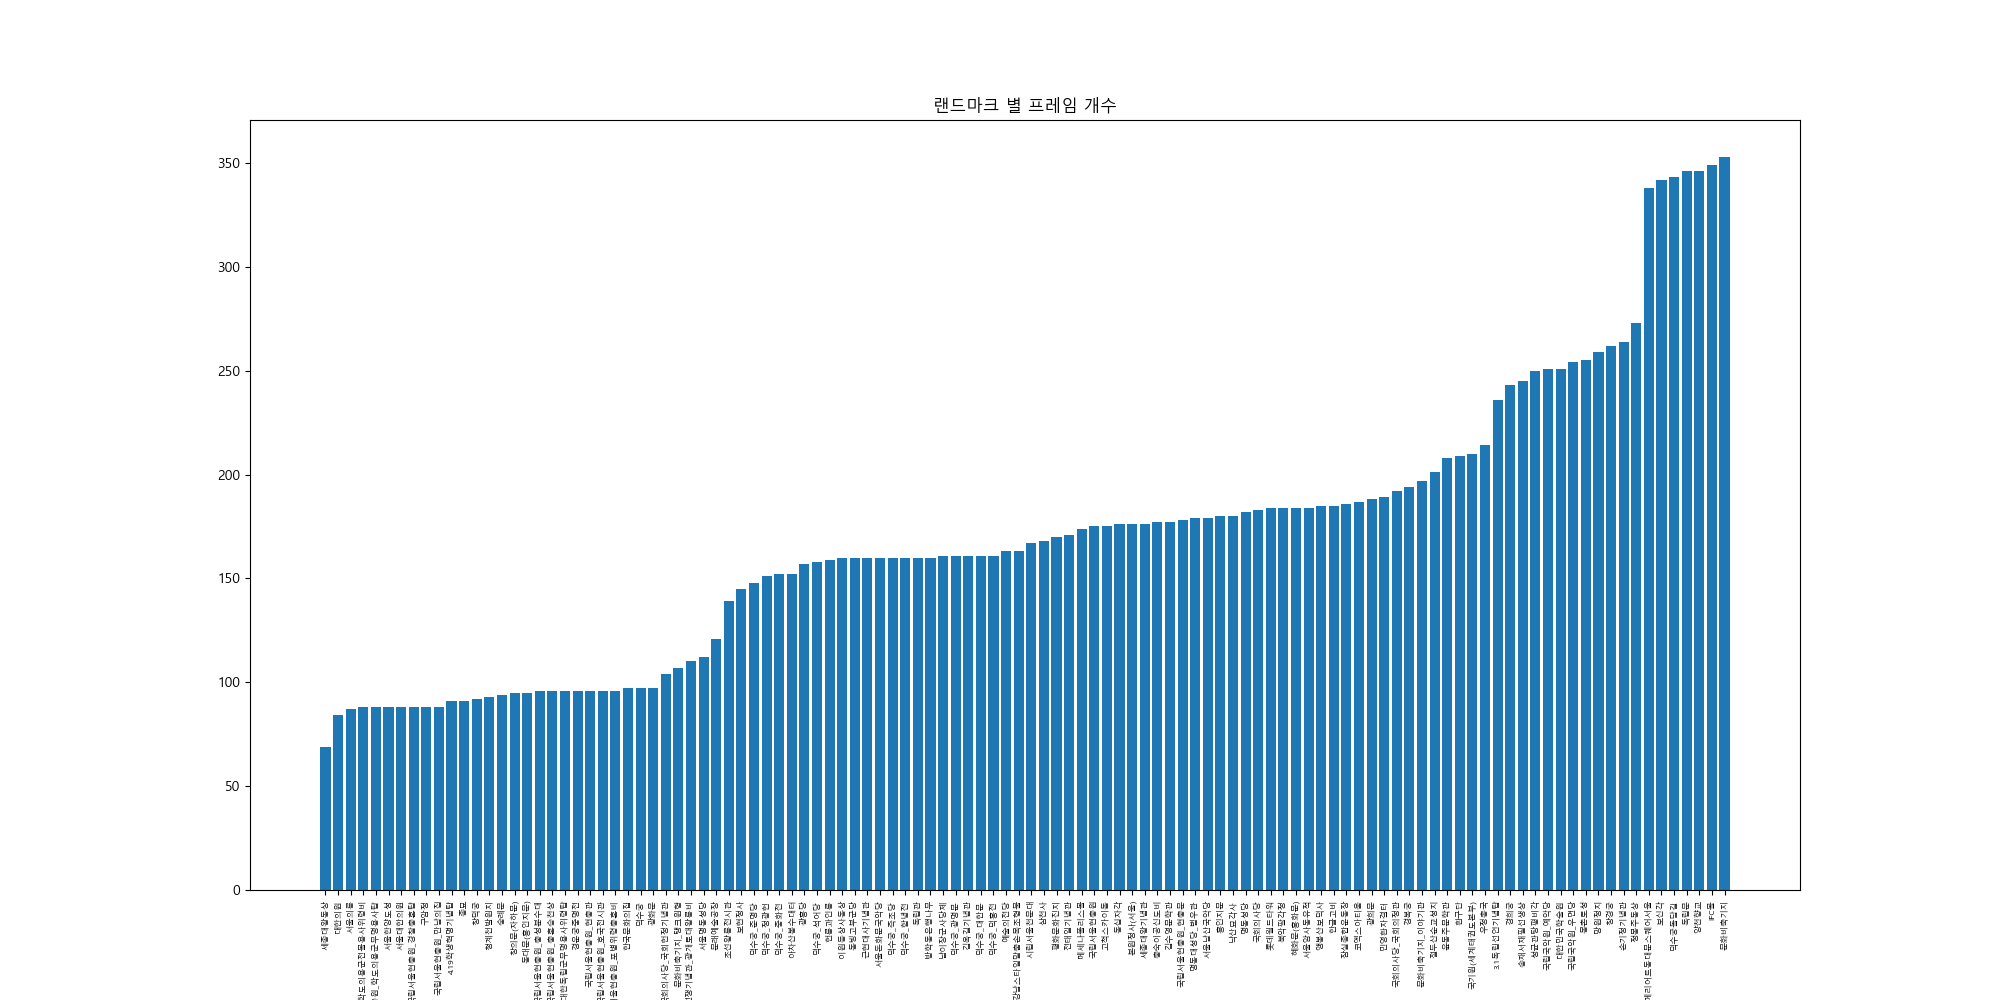
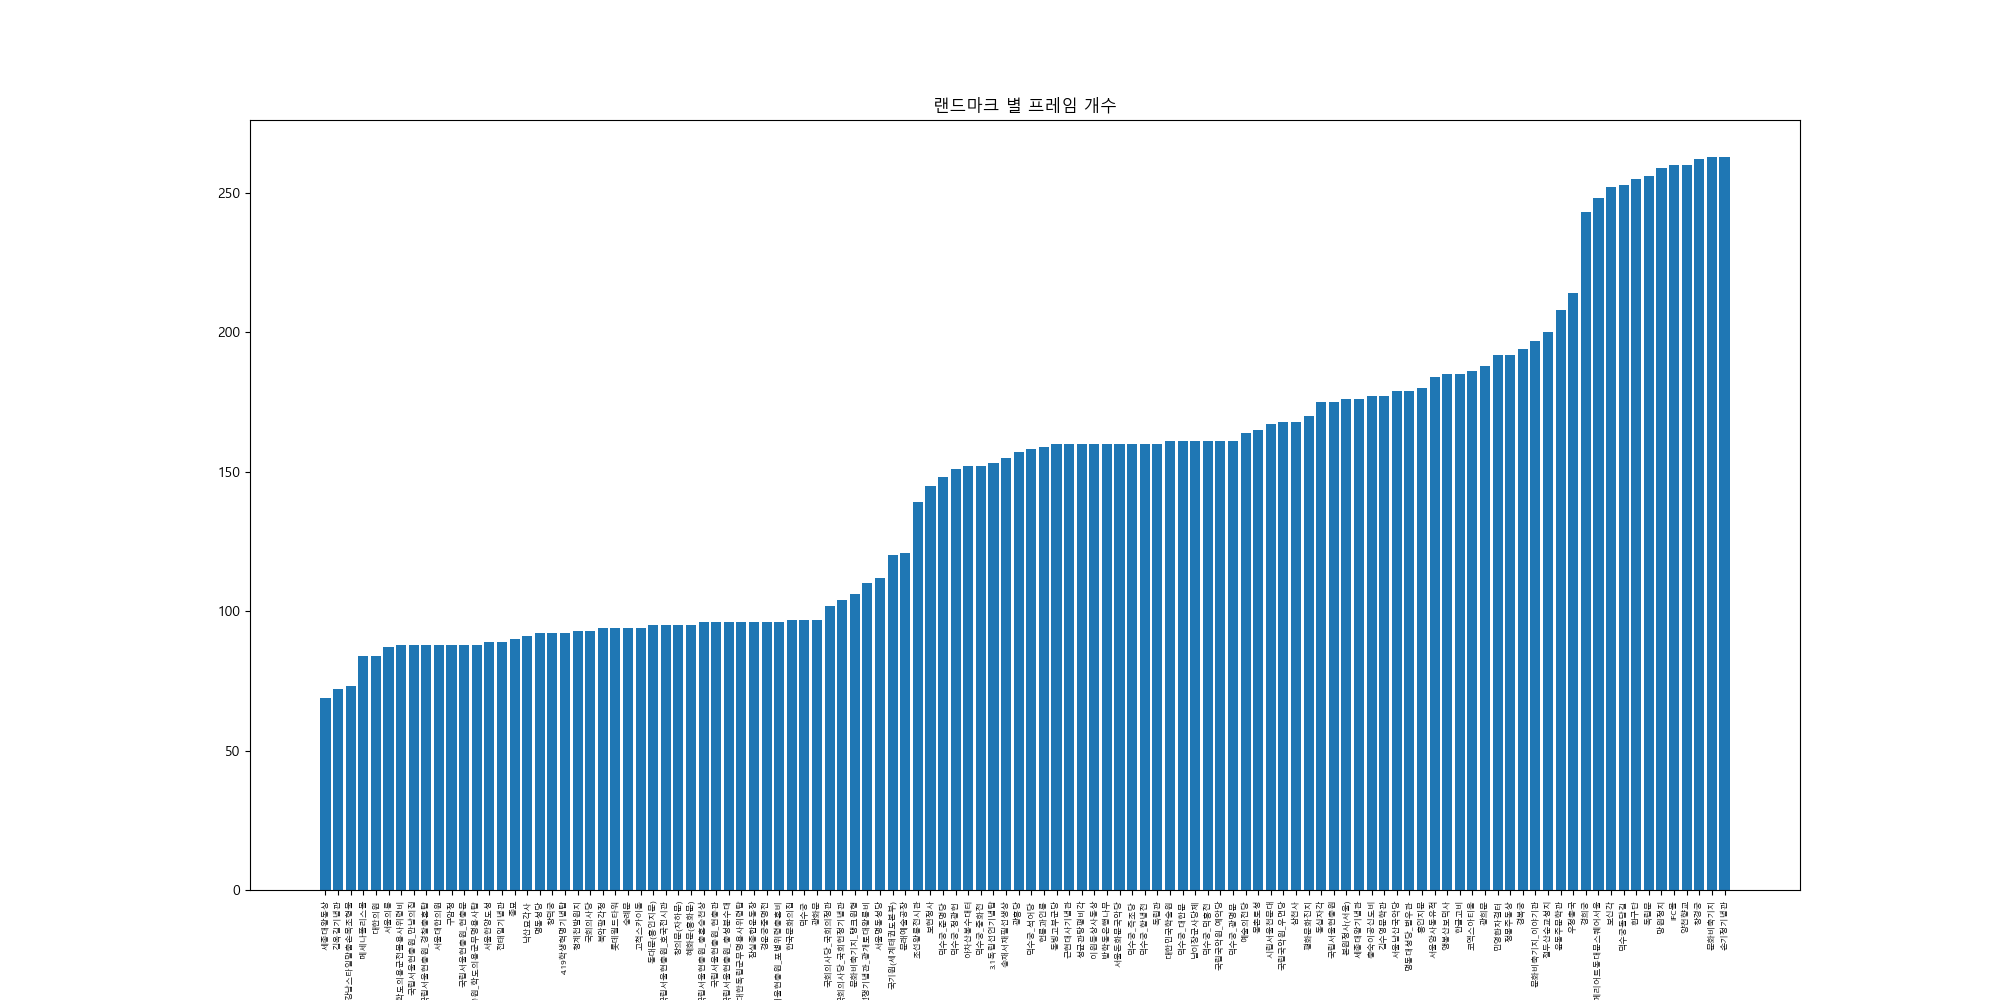
fix : Correct image directory path

Changed region(s): [[0.155, 0.155, 0.868, 0.744], [0.155, 0.899, 0.868, 1.0]]

diff --git a/ai/utils/eda.py b/ai/utils/eda.py
@@ -13,12 +13,8 @@ path = os.environ['DATASET_PATH']
 dirs = os.listdir(path)
 data = []
 for dir in dirs:
-    if '원천' not in dir:
-        continue
     landmarks = os.listdir(path + dir)
-    tmp = [[landmark, len(os.listdir(path + dir + f'/{landmark}'))] for landmark in landmarks]
-    data.extend(tmp)
-    print(dir)
+    data.append([dir, len(landmarks)])
 df = pd.DataFrame(data, columns=['name', 'img_num'])
 df.to_excel('ai/eda.xlsx', index=False)
 
